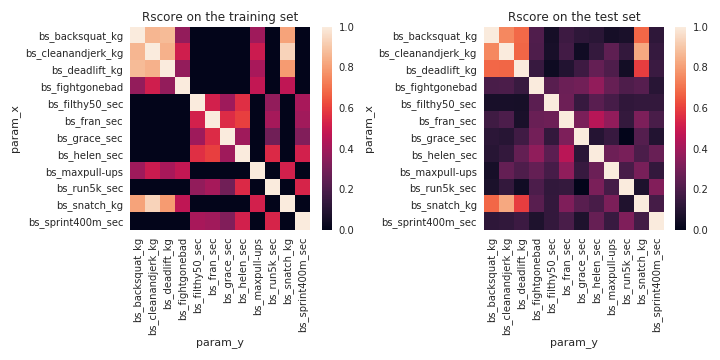
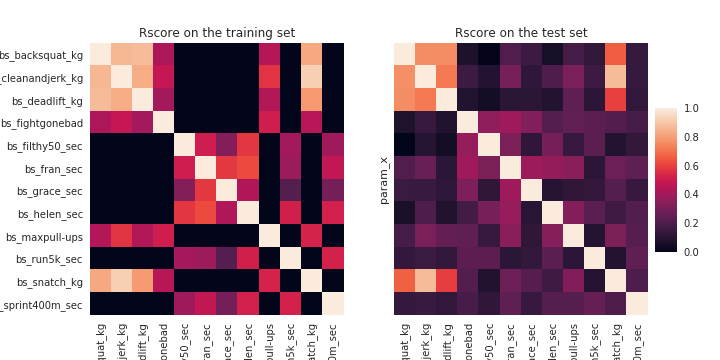
update

diff --git a/_posts/2018-03-30-crossfitopen.md b/_posts/2018-03-30-crossfitopen.md
@@ -1,7 +1,7 @@
 ---
 layout: post
 comments: true
-published: false
+published: true
 title: WIP Crossfit open 2018 WIP
 subtitle: Introduction to webscraping
 header-img: img/header_img/victor-freitas-546919-unsplash.jpg
@@ -21,7 +21,7 @@ This program seems to have been invited in the 2000's by Greg Glassman and Laure
 
 I invite to take to some videos on the [crossfit inc channel on youtube](https://www.youtube.com/channel/UCtcQ6TPwXAYgZ1Mcl3M1vng) to have a better view of what could be the exercices to do during a session.
 
-In my case I am rpacticing crossfit since August 2018, three times per week and I liked it honestly when I started I was looking the sport as some brutes that were doing gym exercice at high intensity.
+In my case I am practicing crossfit since August 2018, three times per week and I liked it honestly when I started I was looking the sport as some brutes that were doing gym exercice at high intensity.
 
 <center>
 <img src="https://media.giphy.com/media/iw3QWgT77aC1G/giphy.gif" />
@@ -268,6 +268,33 @@ Ranking
 
 
 # Dashboard with Tableau Public
+
+
+# Weight model estimator
+
+
+<center>
+<img src="{{ site.baseurl }}/img/posts/crossfit/linearmodel_example.png" />
+<h6><i>Illustration of a linear relation between two exercices</i></h6>
+</center>
+
+
+
+<center>
+<img src="{{ site.baseurl }}/img/posts/crossfit/heatmap_linearmodel.png" />
+<h6><i>rscore matrix for the different benchmark</i></h6>
+</center>
+
+
+<center>
+<img src="{{ site.baseurl }}/img/posts/crossfit/linearmodel_weight.png" />
+<h6><i>rscore matrix for the different benchmark</i></h6>
+</center>
+
+<center>
+<img src="{{ site.baseurl }}/img/posts/crossfit/matrix_adjust_weight.png" />
+<h6><i>Adjustment matrix </i></h6>
+</center>
 
 
 # Next steps
